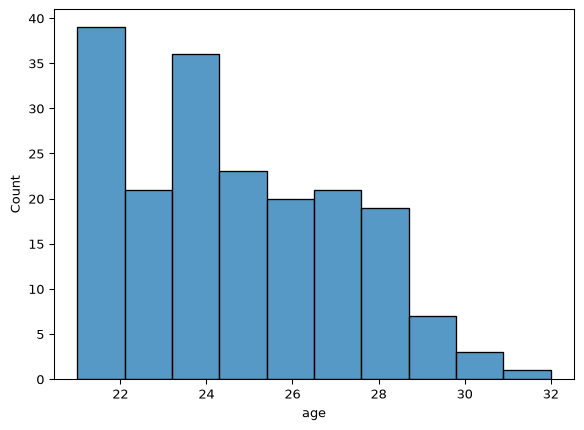
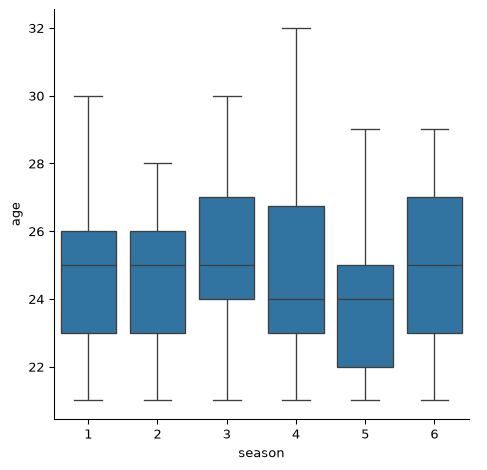
added more visualizations

diff --git a/readme.md b/readme.md
@@ -155,28 +155,22 @@ season 3 having the highest average age and season 5 having the lowest:
 
 ``` python
 love_island_df.groupby('season')['age'].mean()
+sns.catplot(data=love_island_df, x="season", y="age", kind='box')
+plt.show()
 ```
 
-    season
-    1    24.680000
-    2    24.677419
-    3    25.411765
-    4    24.676471
-    5    24.151515
-    6    25.090909
-    Name: age, dtype: float64
+![](readme_files/figure-commonmark/cell-11-output-1.png)
 
 Female islanders have a slightly lower average age (24) then male
 islanders (25):
 
 ``` python
 love_island_df.groupby('sex')['age'].mean()
+sns.displot(data=love_island_df, x='age', hue='sex',kind="kde")
+plt.show()
 ```
 
-    sex
-    Female    24.170213
-    Male      25.395833
-    Name: age, dtype: float64
+![](readme_files/figure-commonmark/cell-12-output-1.png)
 
 The average age of winners does not differ from the overall average age
 of contestants:
